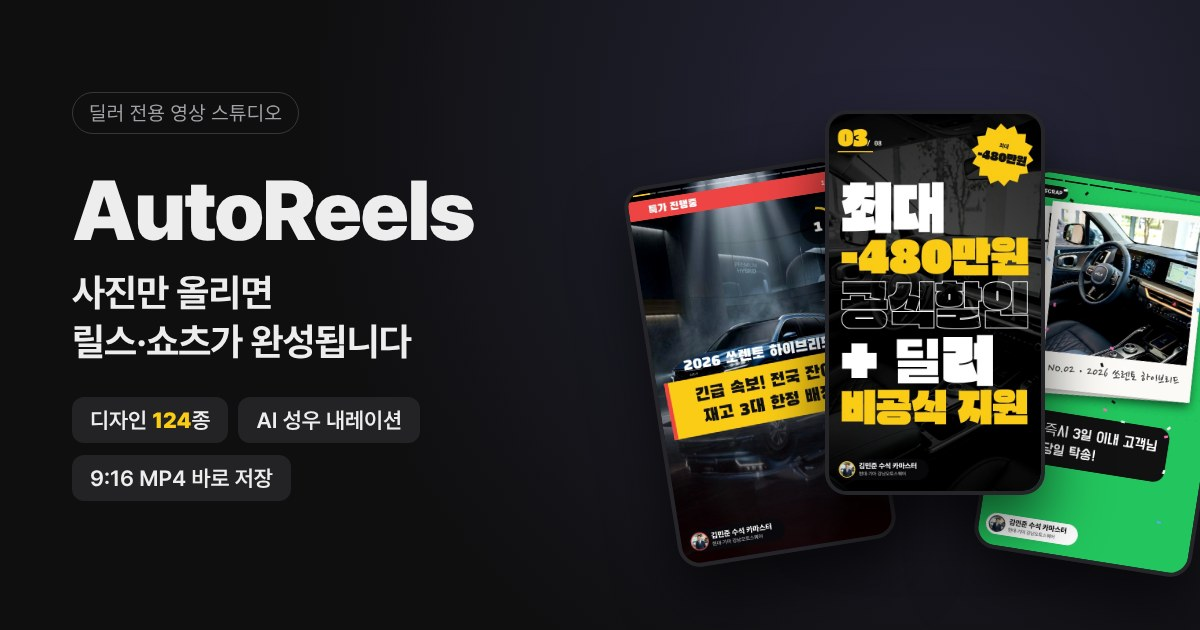
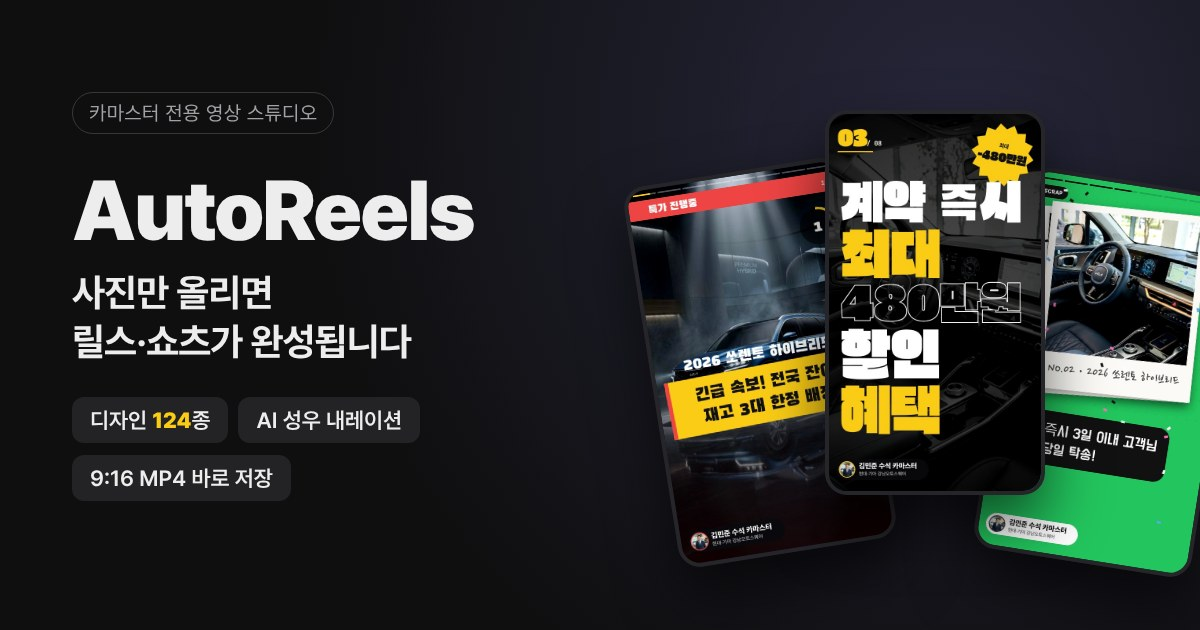
fix: say 카마스터 instead of 딜러 in share tags and share image
Claude-Session: https://claude.ai/code/session_01Fmk2RZhTKmWMc63tF6uxyF

Changed region(s): [[0.6783, 0.2714, 0.8633, 0.6937], [0.0617, 0.1508, 0.2775, 0.2111]]

diff --git a/index.html b/index.html
@@ -4,7 +4,7 @@
   <meta charset="UTF-8" />
   <meta name="viewport" content="width=device-width, initial-scale=1.0, maximum-scale=1.0, user-scalable=no" />
   <title>AutoReels — 카마스터 9:16 프로모션 영상 스튜디오</title>
-  <meta name="description" content="사진만 올리면 딜러 전용 릴스·쇼츠가 완성됩니다. 디자인 124종, AI 성우 내레이션, 9:16 MP4 바로 저장." />
+  <meta name="description" content="사진만 올리면 카마스터 전용 릴스·쇼츠가 완성됩니다. 디자인 124종, AI 성우 내레이션, 9:16 MP4 바로 저장." />
   <meta name="theme-color" content="#0f0f10" />
   <link rel="canonical" href="https://dealer-reels-platform.vercel.app/" />
   <link rel="icon" type="image/svg+xml" href="/favicon.svg" />
@@ -12,18 +12,18 @@
   <meta property="og:site_name" content="AutoReels" />
   <meta property="og:locale" content="ko_KR" />
   <meta property="og:url" content="https://dealer-reels-platform.vercel.app/" />
-  <meta property="og:title" content="AutoReels — 딜러 릴스·쇼츠 스튜디오" />
+  <meta property="og:title" content="AutoReels — 카마스터 릴스·쇼츠 스튜디오" />
   <meta property="og:description" content="사진만 올리면 릴스·쇼츠 완성! 디자인 124종" />
-  <meta property="og:image" content="https://dealer-reels-platform.vercel.app/og-image.jpg" />
-  <meta property="og:image:secure_url" content="https://dealer-reels-platform.vercel.app/og-image.jpg" />
+  <meta property="og:image" content="https://dealer-reels-platform.vercel.app/og-cover.jpg" />
+  <meta property="og:image:secure_url" content="https://dealer-reels-platform.vercel.app/og-cover.jpg" />
   <meta property="og:image:type" content="image/jpeg" />
   <meta property="og:image:width" content="1200" />
   <meta property="og:image:height" content="630" />
-  <meta property="og:image:alt" content="AutoReels — 사진만 올리면 릴스·쇼츠가 완성되는 딜러 전용 영상 스튜디오" />
+  <meta property="og:image:alt" content="AutoReels — 사진만 올리면 릴스·쇼츠가 완성되는 카마스터 전용 영상 스튜디오" />
   <meta name="twitter:card" content="summary_large_image" />
-  <meta name="twitter:title" content="AutoReels — 딜러 릴스·쇼츠 스튜디오" />
+  <meta name="twitter:title" content="AutoReels — 카마스터 릴스·쇼츠 스튜디오" />
   <meta name="twitter:description" content="사진만 올리면 릴스·쇼츠 완성! 디자인 124종" />
-  <meta name="twitter:image" content="https://dealer-reels-platform.vercel.app/og-image.jpg" />
+  <meta name="twitter:image" content="https://dealer-reels-platform.vercel.app/og-cover.jpg" />
   <link rel="stylesheet" as="style" crossorigin href="https://cdn.jsdelivr.net/gh/orioncactus/pretendard@v1.3.9/dist/web/variable/pretendardvariable.min.css" />
   <link rel="stylesheet" href="https://fonts.googleapis.com/css2?family=JetBrains+Mono:wght@400;500;700&family=Black+Han+Sans&family=Noto+Serif+KR:wght@700;900&family=Do+Hyeon&family=Jua&family=Nanum+Pen+Script&family=Gugi&family=Gaegu:wght@700&family=Hi+Melody&family=East+Sea+Dokdo&family=Single+Day&family=Yeon+Sung&family=Poor+Story&family=Gamja+Flower&family=Nanum+Brush+Script&family=Gasoek+One&family=Bagel+Fat+One&family=Song+Myung&family=Black+And+White+Picture&family=Dongle:wght@700&display=swap" />
   <script src="https://cdn.tailwindcss.com"></script>

diff --git a/public/index.html b/public/index.html
@@ -4,7 +4,7 @@
   <meta charset="UTF-8" />
   <meta name="viewport" content="width=device-width, initial-scale=1.0, maximum-scale=1.0, user-scalable=no" />
   <title>AutoReels — 카마스터 9:16 프로모션 영상 스튜디오</title>
-  <meta name="description" content="사진만 올리면 딜러 전용 릴스·쇼츠가 완성됩니다. 디자인 124종, AI 성우 내레이션, 9:16 MP4 바로 저장." />
+  <meta name="description" content="사진만 올리면 카마스터 전용 릴스·쇼츠가 완성됩니다. 디자인 124종, AI 성우 내레이션, 9:16 MP4 바로 저장." />
   <meta name="theme-color" content="#0f0f10" />
   <link rel="canonical" href="https://dealer-reels-platform.vercel.app/" />
   <link rel="icon" type="image/svg+xml" href="/favicon.svg" />
@@ -12,18 +12,18 @@
   <meta property="og:site_name" content="AutoReels" />
   <meta property="og:locale" content="ko_KR" />
   <meta property="og:url" content="https://dealer-reels-platform.vercel.app/" />
-  <meta property="og:title" content="AutoReels — 딜러 릴스·쇼츠 스튜디오" />
+  <meta property="og:title" content="AutoReels — 카마스터 릴스·쇼츠 스튜디오" />
   <meta property="og:description" content="사진만 올리면 릴스·쇼츠 완성! 디자인 124종" />
-  <meta property="og:image" content="https://dealer-reels-platform.vercel.app/og-image.jpg" />
-  <meta property="og:image:secure_url" content="https://dealer-reels-platform.vercel.app/og-image.jpg" />
+  <meta property="og:image" content="https://dealer-reels-platform.vercel.app/og-cover.jpg" />
+  <meta property="og:image:secure_url" content="https://dealer-reels-platform.vercel.app/og-cover.jpg" />
   <meta property="og:image:type" content="image/jpeg" />
   <meta property="og:image:width" content="1200" />
   <meta property="og:image:height" content="630" />
-  <meta property="og:image:alt" content="AutoReels — 사진만 올리면 릴스·쇼츠가 완성되는 딜러 전용 영상 스튜디오" />
+  <meta property="og:image:alt" content="AutoReels — 사진만 올리면 릴스·쇼츠가 완성되는 카마스터 전용 영상 스튜디오" />
   <meta name="twitter:card" content="summary_large_image" />
-  <meta name="twitter:title" content="AutoReels — 딜러 릴스·쇼츠 스튜디오" />
+  <meta name="twitter:title" content="AutoReels — 카마스터 릴스·쇼츠 스튜디오" />
   <meta name="twitter:description" content="사진만 올리면 릴스·쇼츠 완성! 디자인 124종" />
-  <meta name="twitter:image" content="https://dealer-reels-platform.vercel.app/og-image.jpg" />
+  <meta name="twitter:image" content="https://dealer-reels-platform.vercel.app/og-cover.jpg" />
   <link rel="stylesheet" as="style" crossorigin href="https://cdn.jsdelivr.net/gh/orioncactus/pretendard@v1.3.9/dist/web/variable/pretendardvariable.min.css" />
   <link rel="stylesheet" href="https://fonts.googleapis.com/css2?family=JetBrains+Mono:wght@400;500;700&family=Black+Han+Sans&family=Noto+Serif+KR:wght@700;900&family=Do+Hyeon&family=Jua&family=Nanum+Pen+Script&family=Gugi&family=Gaegu:wght@700&family=Hi+Melody&family=East+Sea+Dokdo&family=Single+Day&family=Yeon+Sung&family=Poor+Story&family=Gamja+Flower&family=Nanum+Brush+Script&family=Gasoek+One&family=Bagel+Fat+One&family=Song+Myung&family=Black+And+White+Picture&family=Dongle:wght@700&display=swap" />
   <script src="https://cdn.tailwindcss.com"></script>
